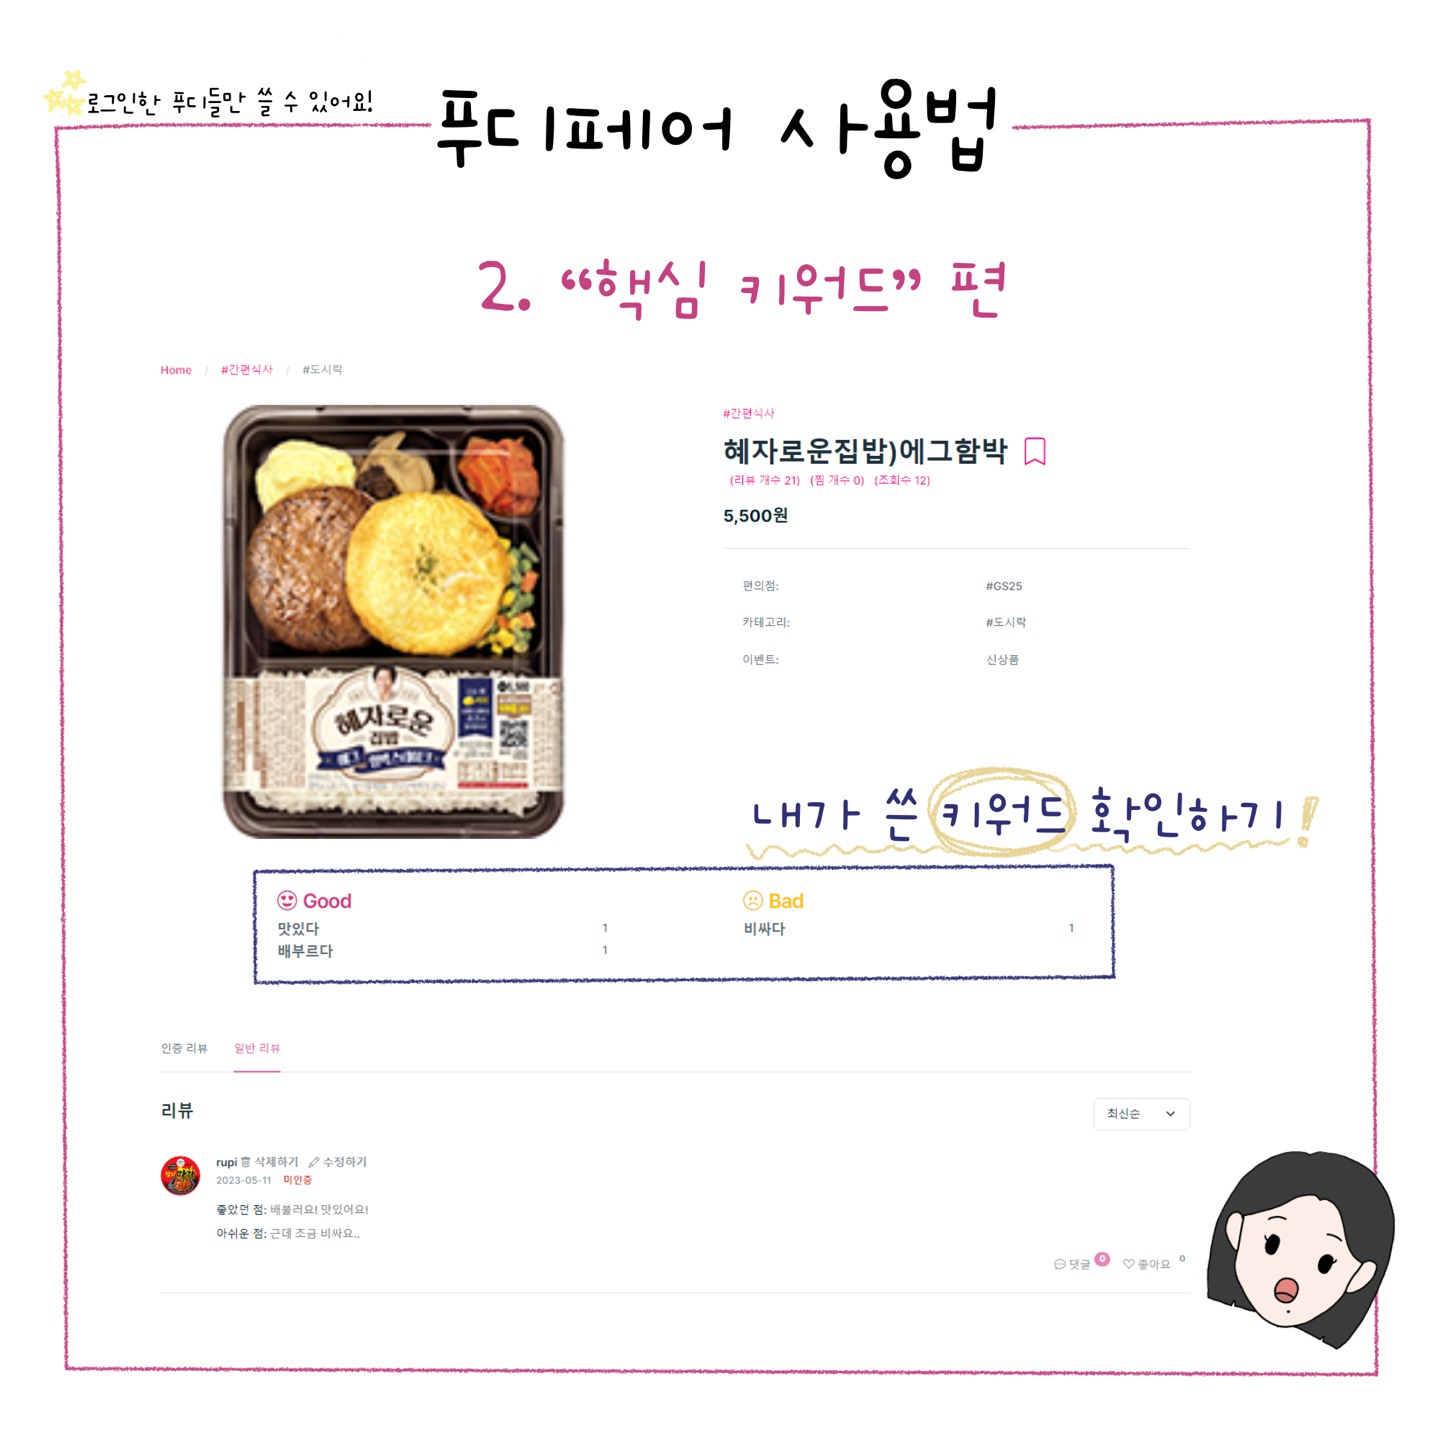
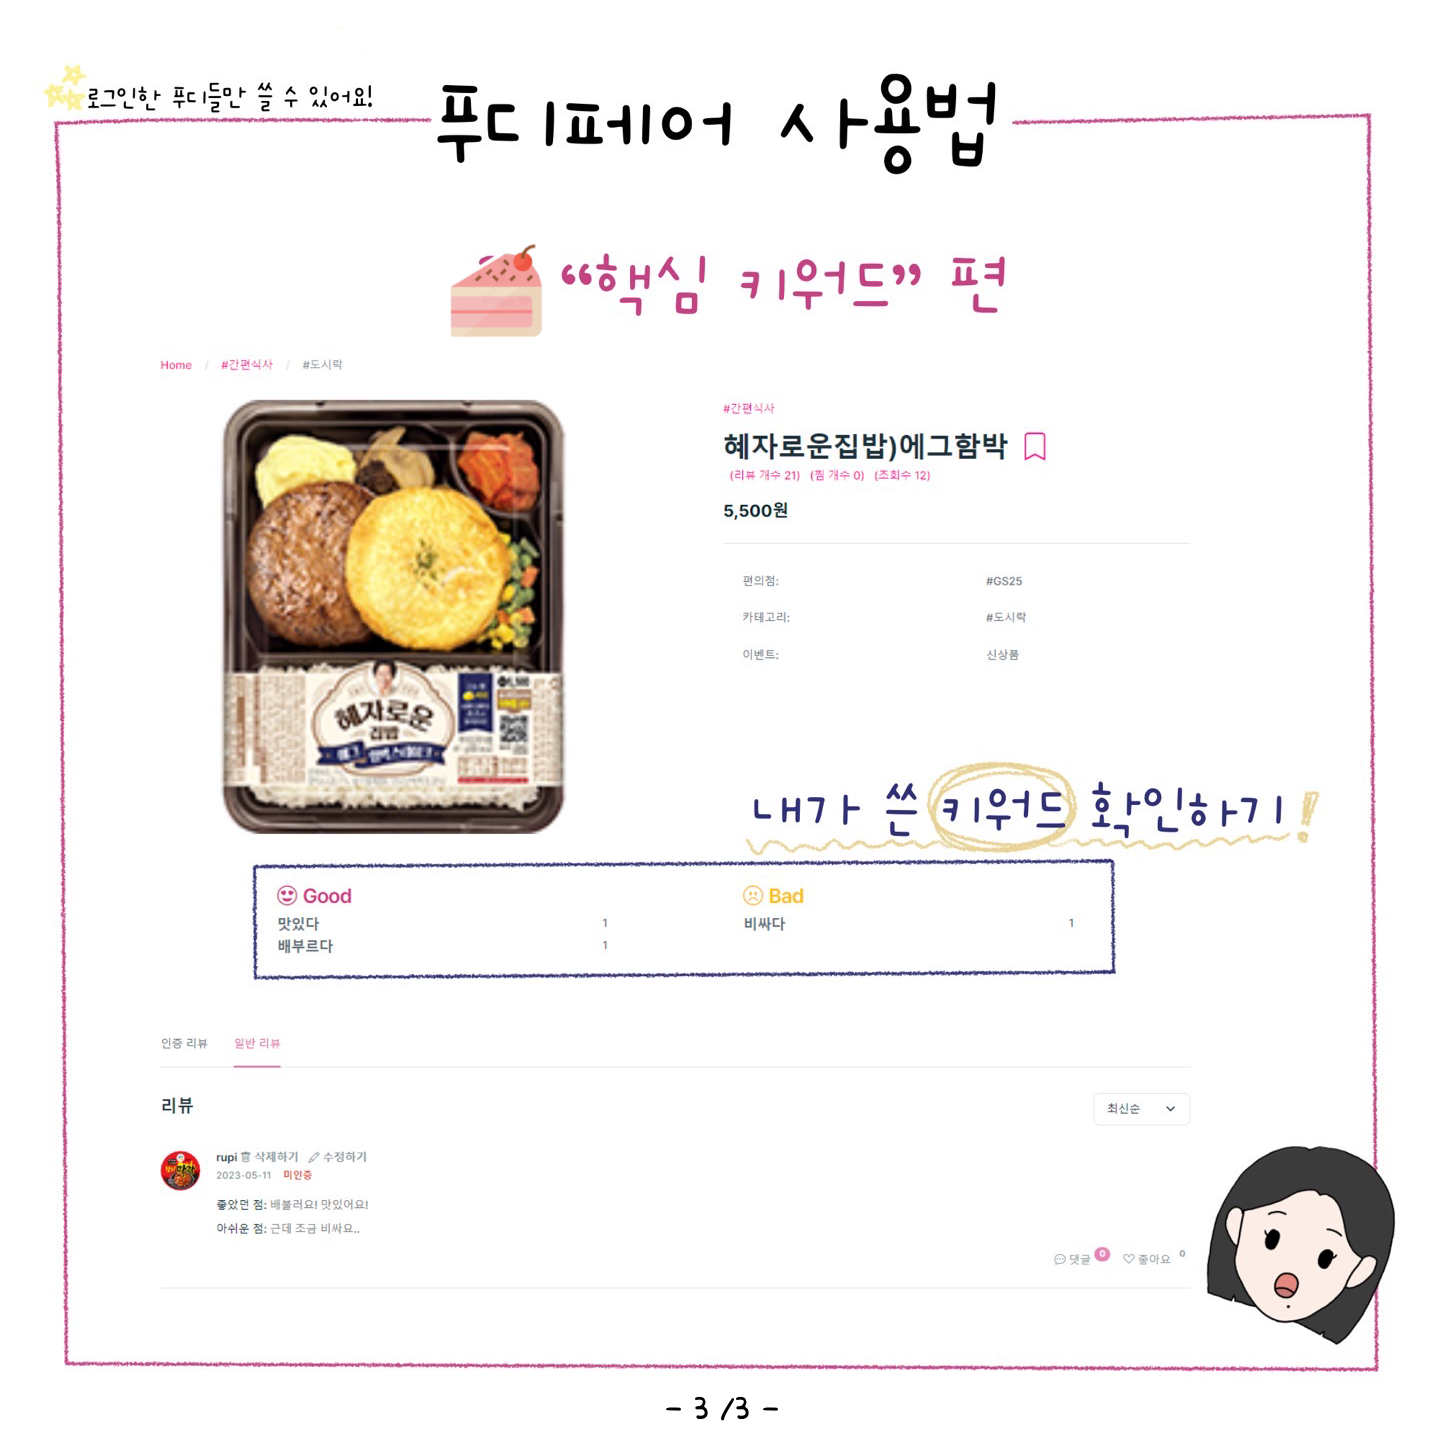
[Feat] 사용법 사진 변경

diff --git a/front-end/foodiefair-bootstrap/src/pages/receipt-method.html b/front-end/foodiefair-bootstrap/src/pages/receipt-method.html
@@ -52,6 +52,12 @@
                                 </div>
                             </div>
                         </div>
+                        <div>
+                            <div style="background: url(../assets/images/method/receipt-6.png) no-repeat center center; background-size: contain; border-radius: .5rem; height: 600px; width: 600px;">
+                                <div class="image-wrapper d-flex flex-column justify-content-end ps-lg-12 py-lg-16 col-xxl-7 col-lg-9 py-14 ps-8 text-xs-center">
+                                </div>
+                            </div>
+                        </div>
                     </div>
                 </div>
             </div>
